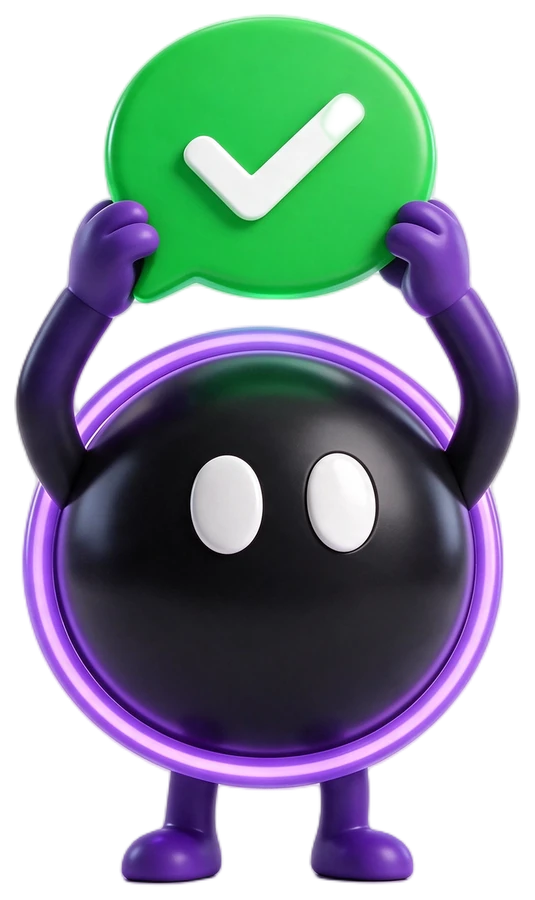
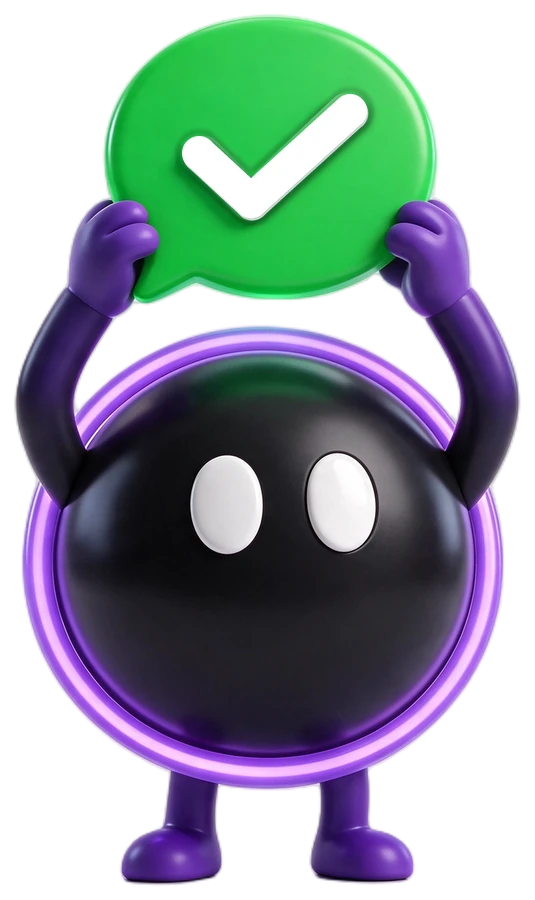
v6: palomita de la mascota redibujada (la punta se había borrado al quitar el fondo)
Claude-Session: https://claude.ai/code/session_01MJ6h8vGJ75JbXUiHG6Pynz

diff --git a/v6/index.html b/v6/index.html
@@ -340,7 +340,7 @@ h1 em, h2 em { font-style: italic; color: var(--violeta-luz); }
   <img data-pose="arriba" src="../assets/v6/mascota/arriba-900.webp" alt="" width="837" height="900">
   <img data-pose="piensa" src="../assets/v6/mascota/piensa-900.webp" alt="" width="757" height="900">
   <img data-pose="senala" src="../assets/v6/mascota/senala-900.webp" alt="" width="900" height="764">
-  <img data-pose="celebra" src="../assets/v6/mascota/celebra-900.webp" alt="" width="535" height="900">
+  <img data-pose="celebra" src="../assets/v6/mascota/celebra-900.webp?v=2" alt="" width="535" height="900">
   <img data-pose="salta" src="../assets/v6/mascota/salta-900.webp" alt="" width="900" height="736">
 </span><span class="mascota__toca" aria-hidden="true">¡Tócame!</span><span class="chispas" aria-hidden="true"><i></i><i></i><i></i><i></i><i></i><i></i><i></i><i></i></span></button></div>
 
